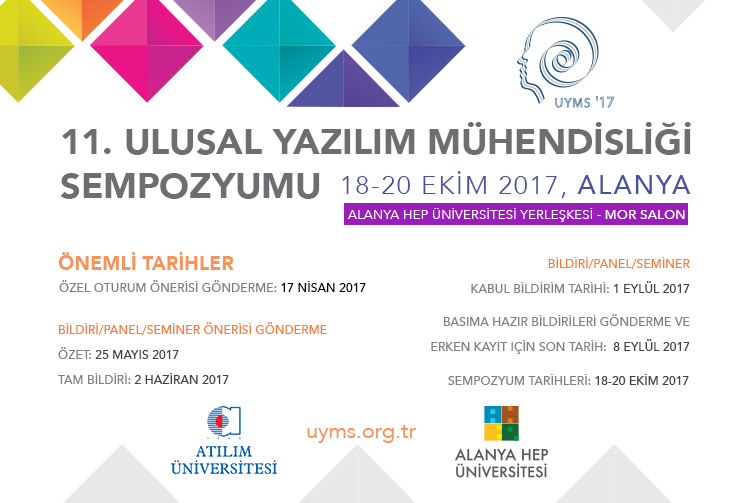
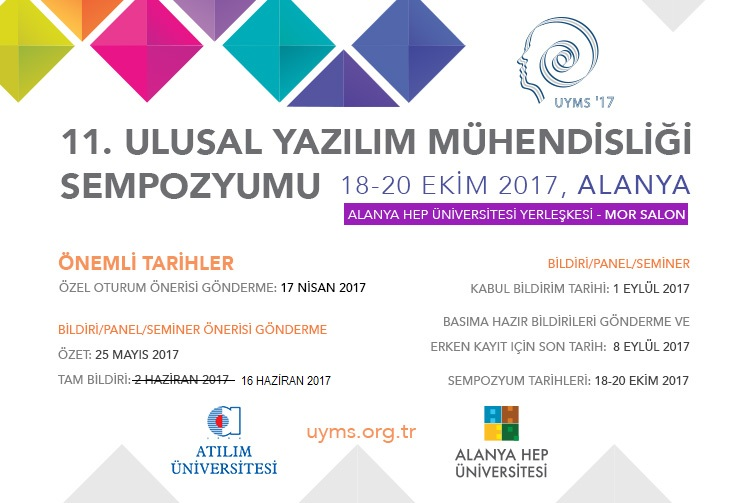
updates
date vs

diff --git a/index.html b/index.html
@@ -160,6 +160,8 @@ new TWTR.Widget({
                         <marquee direction="up" scrolldelay=150>
                             <dl class='dl-horizontal'>
 
+								<dt>Jun 01, 2017</dt>
+                                <dd>Tam Bildiri gönderimi <strong>16 Haziran 2017</strong> olacak şekilde uzatılmıştır!</dd>
                                 <dt>Feb 16, 2017</dt>
                                 <dd><strong>Önemli Tarihler</strong> web sitesine eklendi!</dd>
                                 <dt>Feb 16, 2017</dt>
